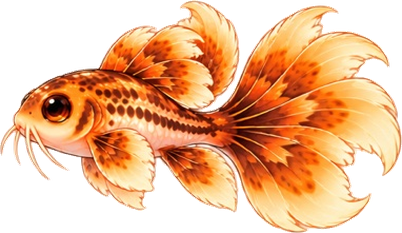
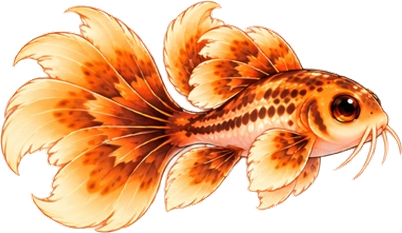
Pleco Cory: flip swim/eat/sleep frames to face right

diff --git a/public/js/data.js b/public/js/data.js
@@ -103,7 +103,7 @@ const DATA = {
 
 /** Frame roles: 0 idle, 1-4 swim, 5 eat (only while eating), 6 sleep, 7 rear/turn */
 // Bump SPRITE_V whenever shipped art changes so phones don't keep stale cached PNGs.
-const SPRITE_V = 78;
+const SPRITE_V = 79;
 // Species with a custom hybrid egg icon (assets/eggs/<species_id>.png).
 const EGG_V = 12;
 const EGG_ART = {
